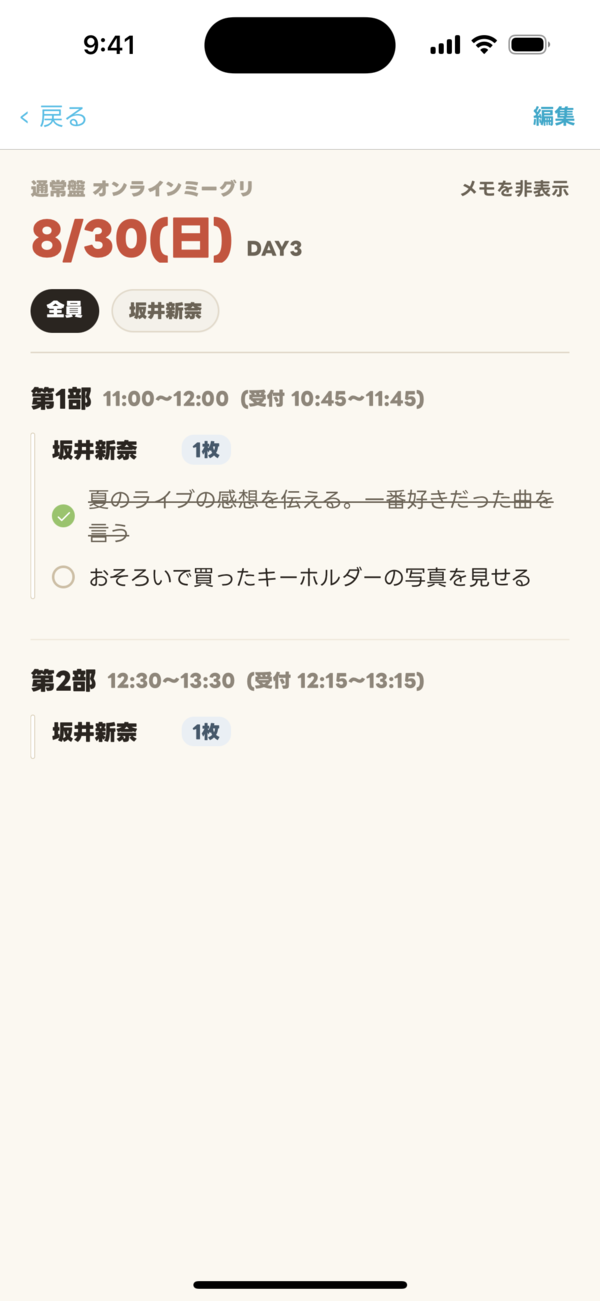
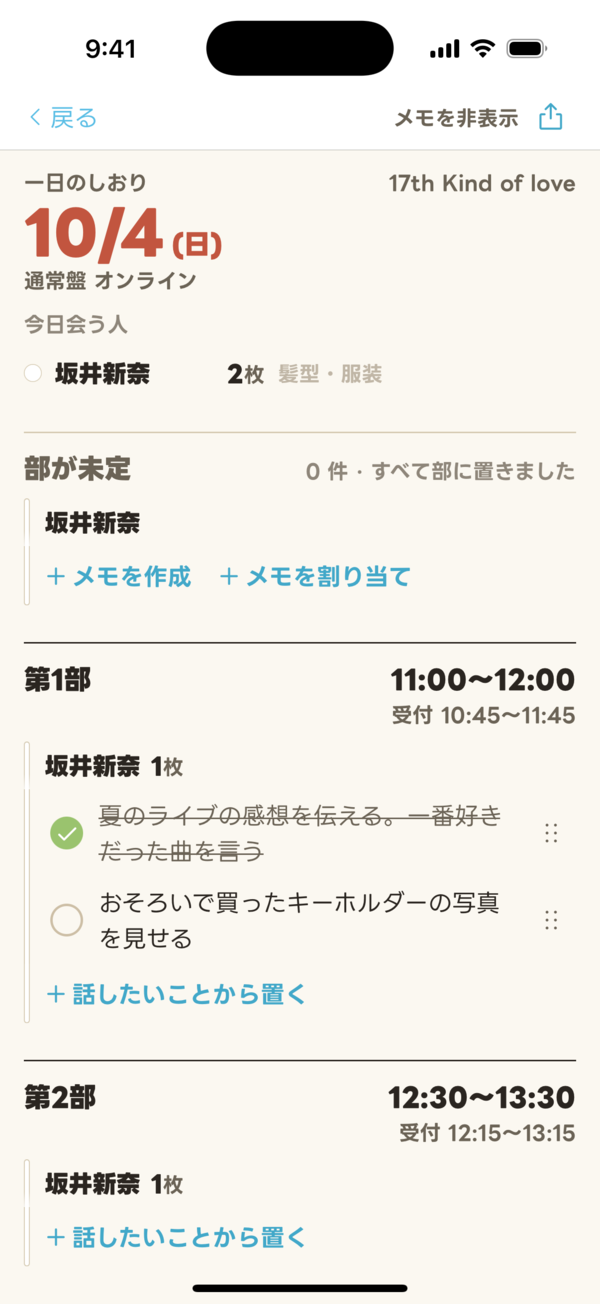
:icecream: 開発者 3 人・2026 年 9 月時点の規模と機能に更新する
規模の表を今日の数字に、機能の説明に言葉タブ (メモ / しおり / レポ / レター)・シリアル入力補助・
forTUNE 取込を足し、スクリーンショットを 1.4.0 の 6 枚に差し替えた。

Claude-Session: https://claude.ai/code/session_01FAznf6JJSrCp6WZvmjAHSE

diff --git a/README.md b/README.md
@@ -16,35 +16,41 @@
 ミーグリは「どの日程の第何部を、何枚、どの受付で申し込むか」を毎シングル考える必要があり、
 当落が出るたびに手元の表を書き換えることになります。ミトレルはこれを 1 つのアプリに収めました。
 
-- **計画** — 日 × 部のマトリックスを塗って申込計画を立て、上限や予算と突き合わせる
-- **記録** — 当落・参加の記録と、話したいことのメモ・話題計画
+- **計画 (日程タブ)** — 日 × 部のマトリックスを塗って申込計画を立て、上限や予算と突き合わせる。
+  申込みの回ごとの割り振り、初回限定盤の応募券シリアルの読み取りと入力補助 (iOS) まで
+- **記録** — 当落・参加・支払いの記録。forTUNE のページを Safari から共有して取り込むこともできる
+- **言葉 (言葉タブ)** — 話したいことのメモ、当日の「一日のしおり」、参加後のレポ、公式メッセージアプリに送るレター
 - **売れ行きの可視化** — 自分の記録だけでなく、他ユーザーの記録を集計して各日程の売れ行きを推定する
 
-3 つ目が中核です。1 人だと自分の申込結果しか分かりませんが、記録が集まると
+最後の 1 つが中核です。1 人だと自分の申込結果しか分かりませんが、記録が集まると
 「どの日程が埋まりやすいか」が見えるようになります。
 
-| ホーム | 計画 | 売れ行き | 記録 | 話題計画 |
-|---|---|---|---|---|
-| ![ホーム](assets/shots/home.png) | ![計画](assets/shots/plan.png) | ![売れ行き](assets/shots/popularity.png) | ![記録](assets/shots/report.png) | ![話題計画](assets/shots/talk-plan.png) |
+| ホーム | 日程 | 完売表 |
+|---|---|---|
+| ![ホーム](assets/shots/home.png) | ![日程](assets/shots/plan.png) | ![完売表](assets/shots/popularity.png) |
+
+| 言葉 | 一日のしおり | これまでのミーグリ |
+|---|---|---|
+| ![言葉](assets/shots/report.png) | ![一日のしおり](assets/shots/talk-plan.png) | ![これまでのミーグリ](assets/shots/mypage.png) |
 
 ---
 
 ## 規模
 
-判断材料として、素の数字を出します (2026 年 8 月時点)。
+判断材料として、素の数字を出します (2026 年 9 月時点)。
 
 | | |
 |---|---|
-| TypeScript | 約 76,000 行 |
-| 画面 | 50 |
-| コンポーネント | 102 |
-| DB マイグレーション | 96 |
-| ユニットテスト | 128 ファイル |
-| E2E シナリオ | 48 feature ファイル |
-| DB テスト (pgTAP) | 43 ファイル |
-| 開いている Issue | 183 |
-| 直近 3 か月にマージした PR | 約 200 |
-| 開発しているのは | 2 人 |
+| TypeScript | 約 210,000 行 |
+| 画面 | 69 |
+| コンポーネント | 195 |
+| DB マイグレーション | 138 |
+| ユニットテスト | 363 ファイル |
+| E2E シナリオ | 91 feature ファイル |
+| DB テスト (pgTAP) | 69 ファイル |
+| 開いている Issue | 254 |
+| 直近 3 か月にマージした PR | 約 340 |
+| 開発しているのは | 3 人 |
 
 **最後の 2 行が、この募集の理由です。** やりたいことに対して手が足りていません。
 
